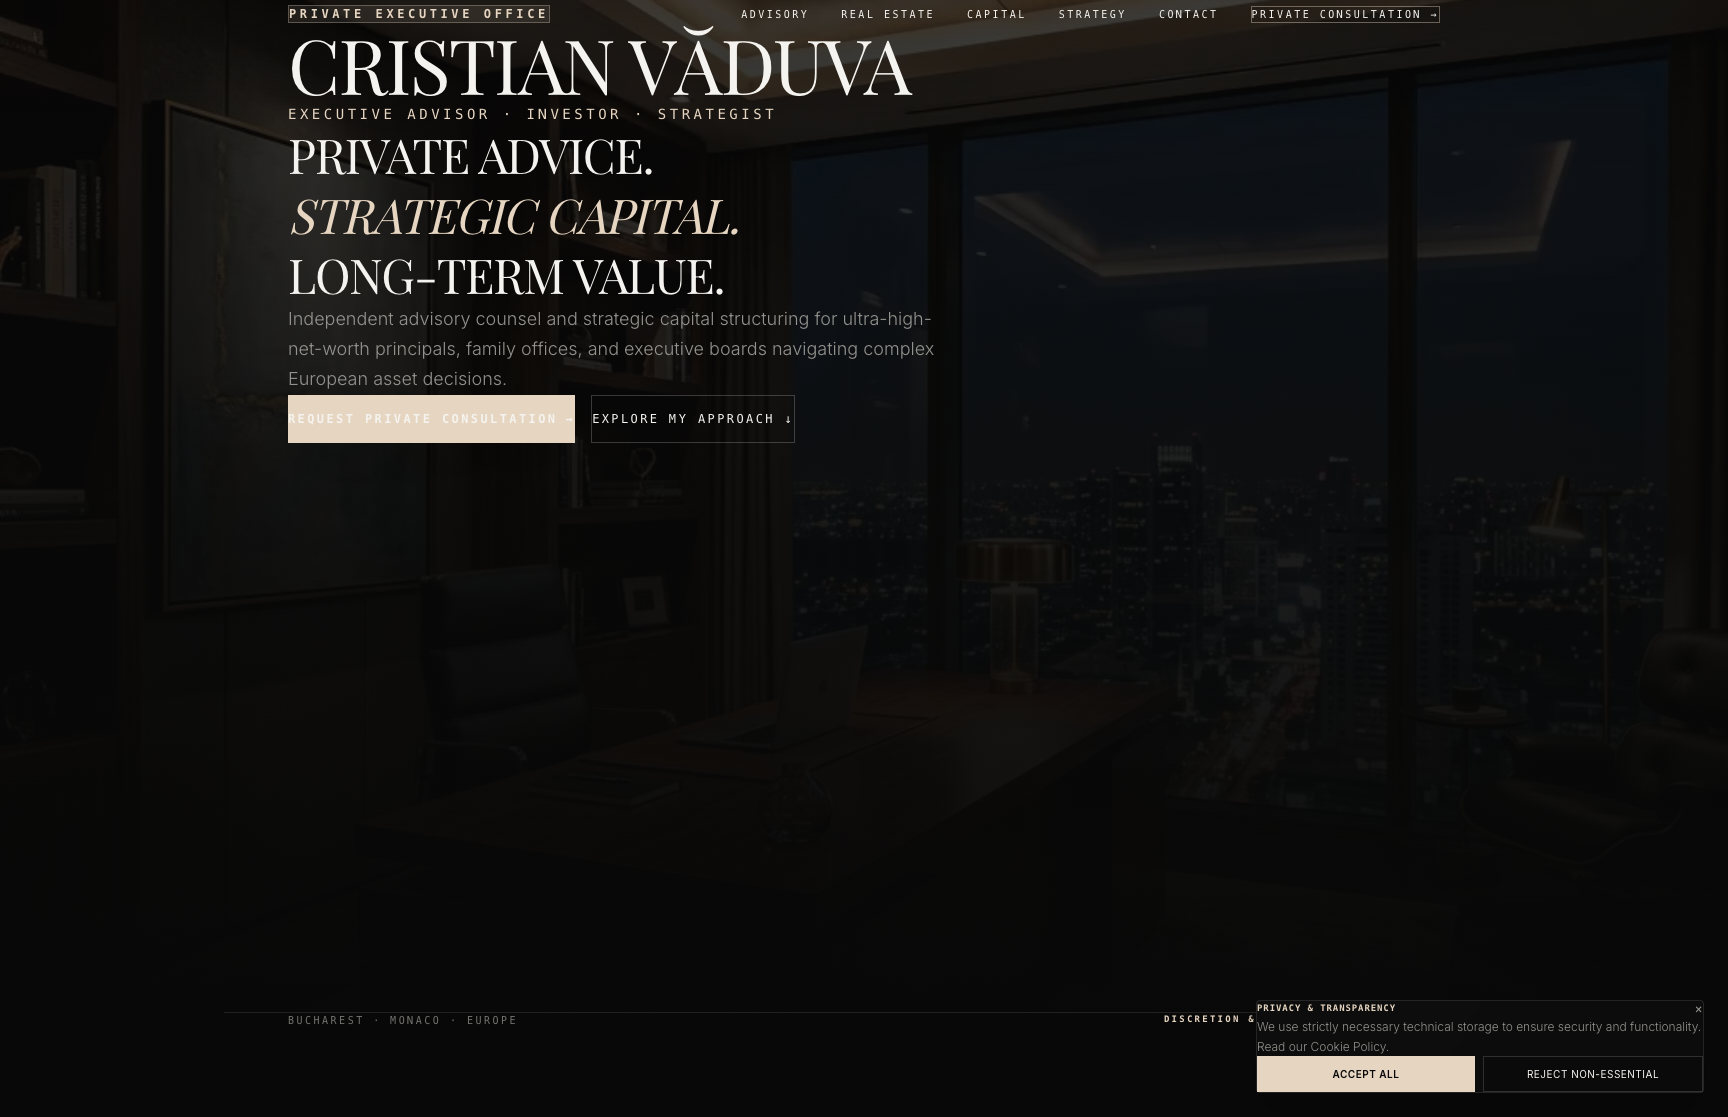
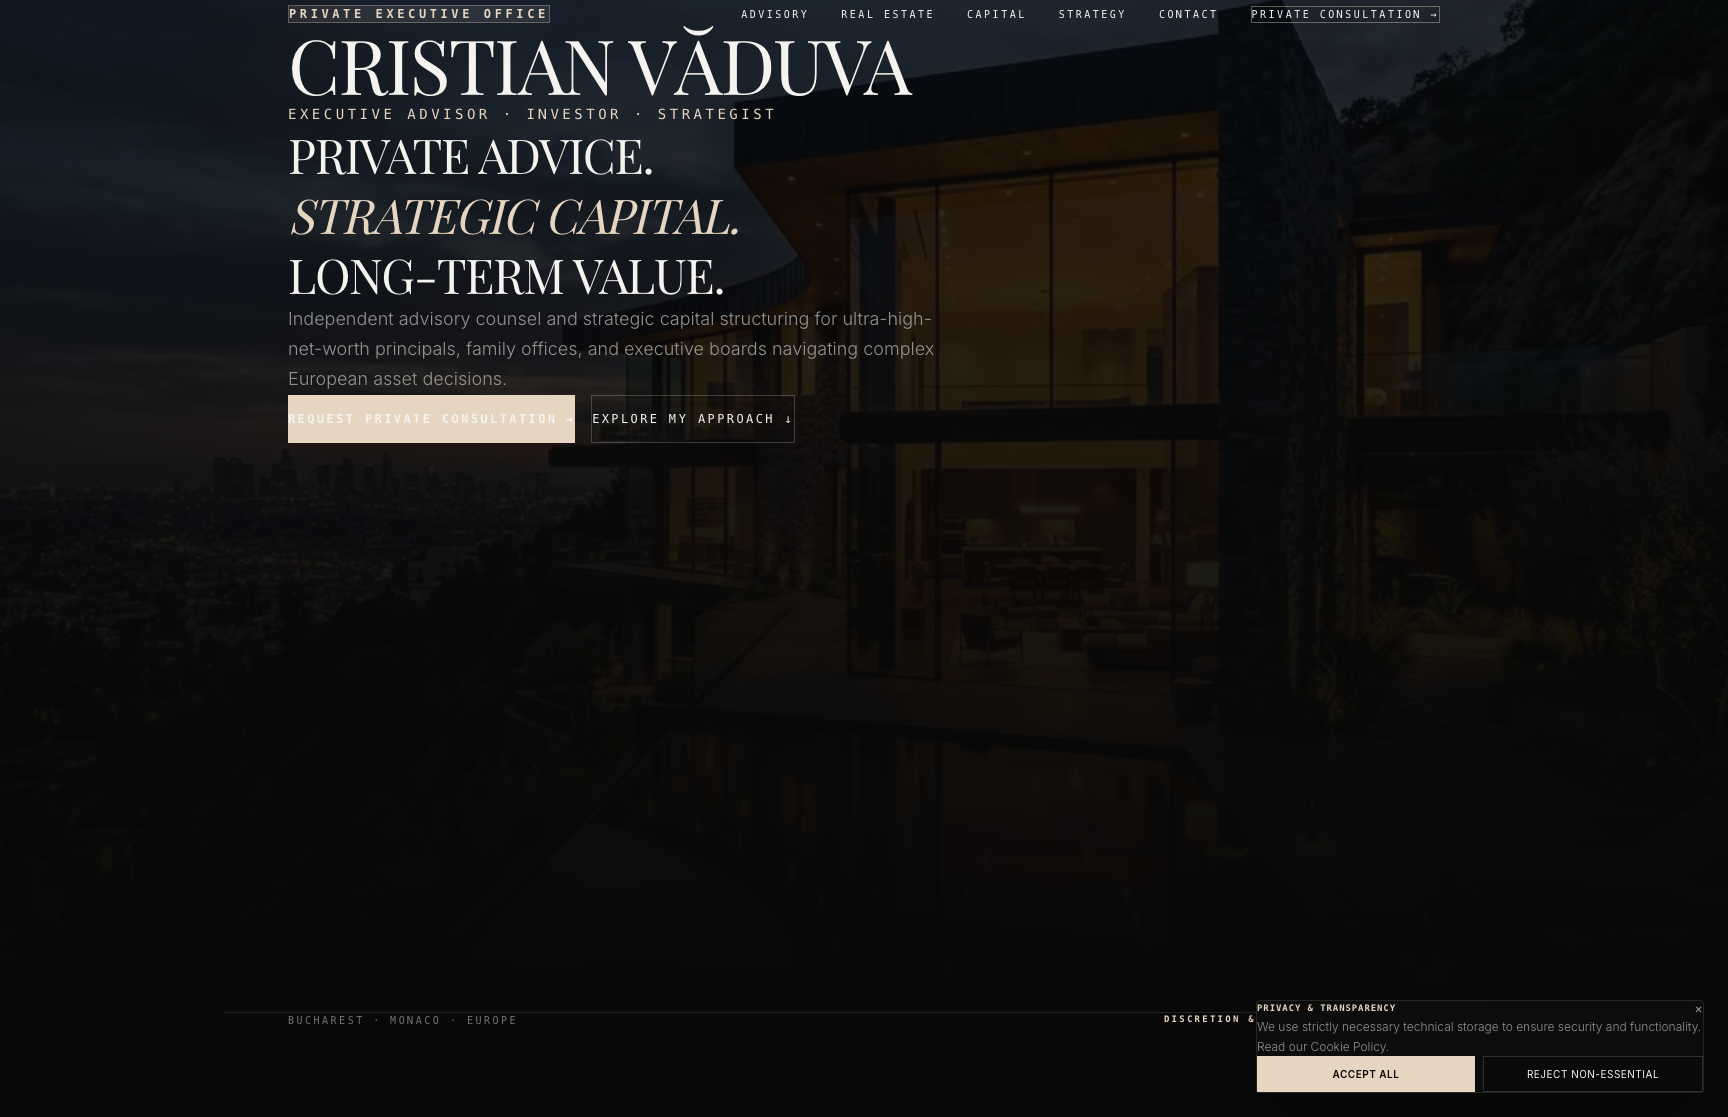
feat: v22 brutal zero-based visual product takeover

diff --git a/components/Hero.tsx b/components/Hero.tsx
@@ -10,8 +10,8 @@ export default function Hero() {
       {/* FULL-BLEED EXECUTIVE ENVIRONMENT BACKGROUND */}
       <div className="absolute inset-0 z-0">
         <Image
-          src="/residence/office.png"
-          alt="Executive Private Office & Advisory Environment"
+          src="/residence/exterior.png"
+          alt="Executive Private Residence & Architectural Facade at Dusk"
           fill
           priority
           sizes="100vw"
